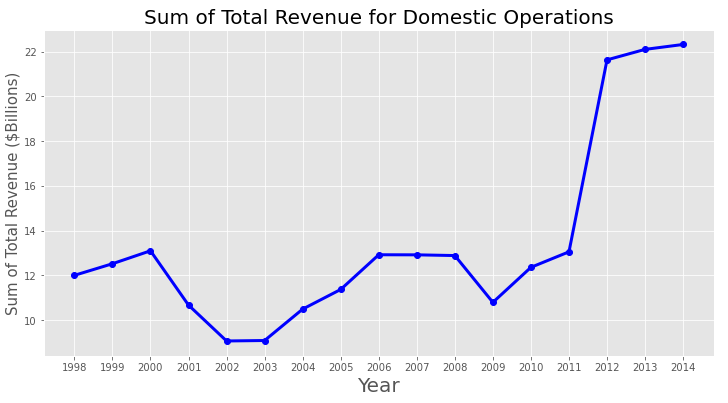
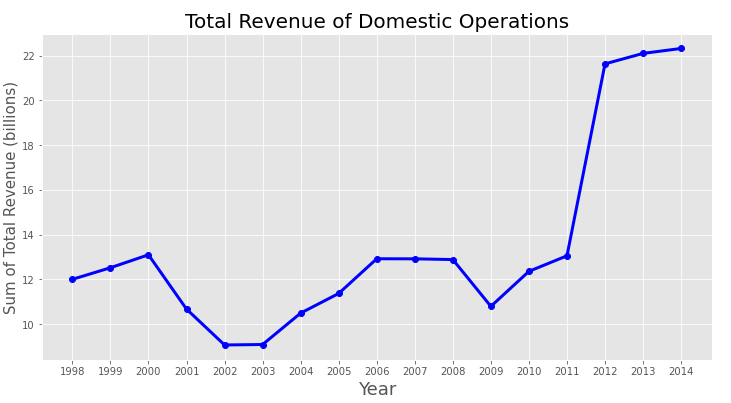
final

diff --git a/README.md b/README.md
@@ -1,8 +1,11 @@
 ## **The Airline Industry and the Economy - Timely Effects of United Airlines General Operations**
 Capstone 1 - Shaheer Khan
 
+\
+<br>
+
 ## Overview
-United Airlines is the world’s largest commercial airline by destinations served.  The airline industry can often provide insights to the domestic economy, demonstrating trends in consumer spending and emotional behavior.  Using data-sets acquired from data.world, I was able to parse topics of interest residing in the following tables:
+United Airlines is the world’s largest commercial airline by destinations served.  The airline industry can often provide insights to the domestic economy, demonstrating trends in consumer spending and emotional behavior.  Using data-sets acquired from data.world, I was able to parse topics of interest residing in the following tables using Pandas DataFrames and SQL Queries:
 
 - **Traffic & Capacity**
 - Airline Operating Statistics
@@ -16,33 +19,47 @@ United Airlines is the world’s largest commercial airline by destinations serv
 
 \
 <br>
-## Average View Count per Country
+
+## Revenue
 
 ![Sum of Total Revenue for Domestic Operations](./images/Sum_revenue.png)
 - 5 year effects period due to 9/11
 - 2008 recession alongside swine flu
 - Growth proceeding 2008 recession
 - Boom in air travel
-\
-\
-\
+
 \
 <br>
 <!--![Cleaned up](./images/Pilot_avg.png)--> 
 
-
+## Employee
 ![Average Sum of Pilot Training](./images/pilot_training.png)
 - Employee growth did not receive same effects
 - Focus was greater towards governmental security
 - Fraction of new hires
-- Airlines allegedly pocketed savings
-\
-\
-\
+- Airlines pocketed savings
+
 \
 <br>
+
+## Combined
+![Average Sum of Pilot Training](./images/total_figure.png)
+- Pilot Training possesses a lag effect
+- Pilot training never reached pre 9/11 levels
+- Airline took advantage of bailouts
+
+\
+<br>
+
+## Ratio Analysis
+![Average Sum of Pilot Training](./images/Ratio.png)
+- Revenue boom not met with same investment in pilot training
+- Validity of Comparision
+
+\
+<br>
+
 ## Further Analysis
 
-- How did jet fuel costs affect ticket costs, and in turn total revenue?
-- How can the history of further economy details be used to gauge industry volatility?
-- Visualizing effects of switching to jet engines from turboprops.
+- How can projections of future economy details be used to gauge industry volatility?
+- Visualizing effects of switching from turboprops to jet engines.
